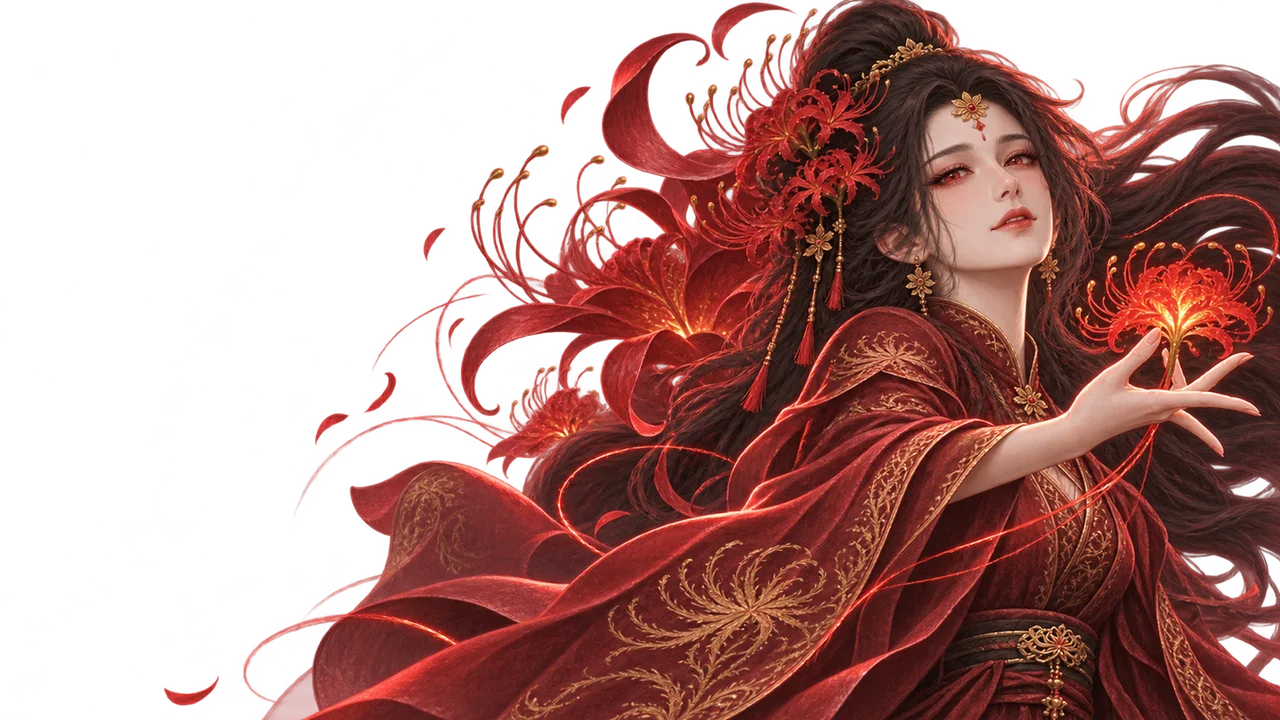
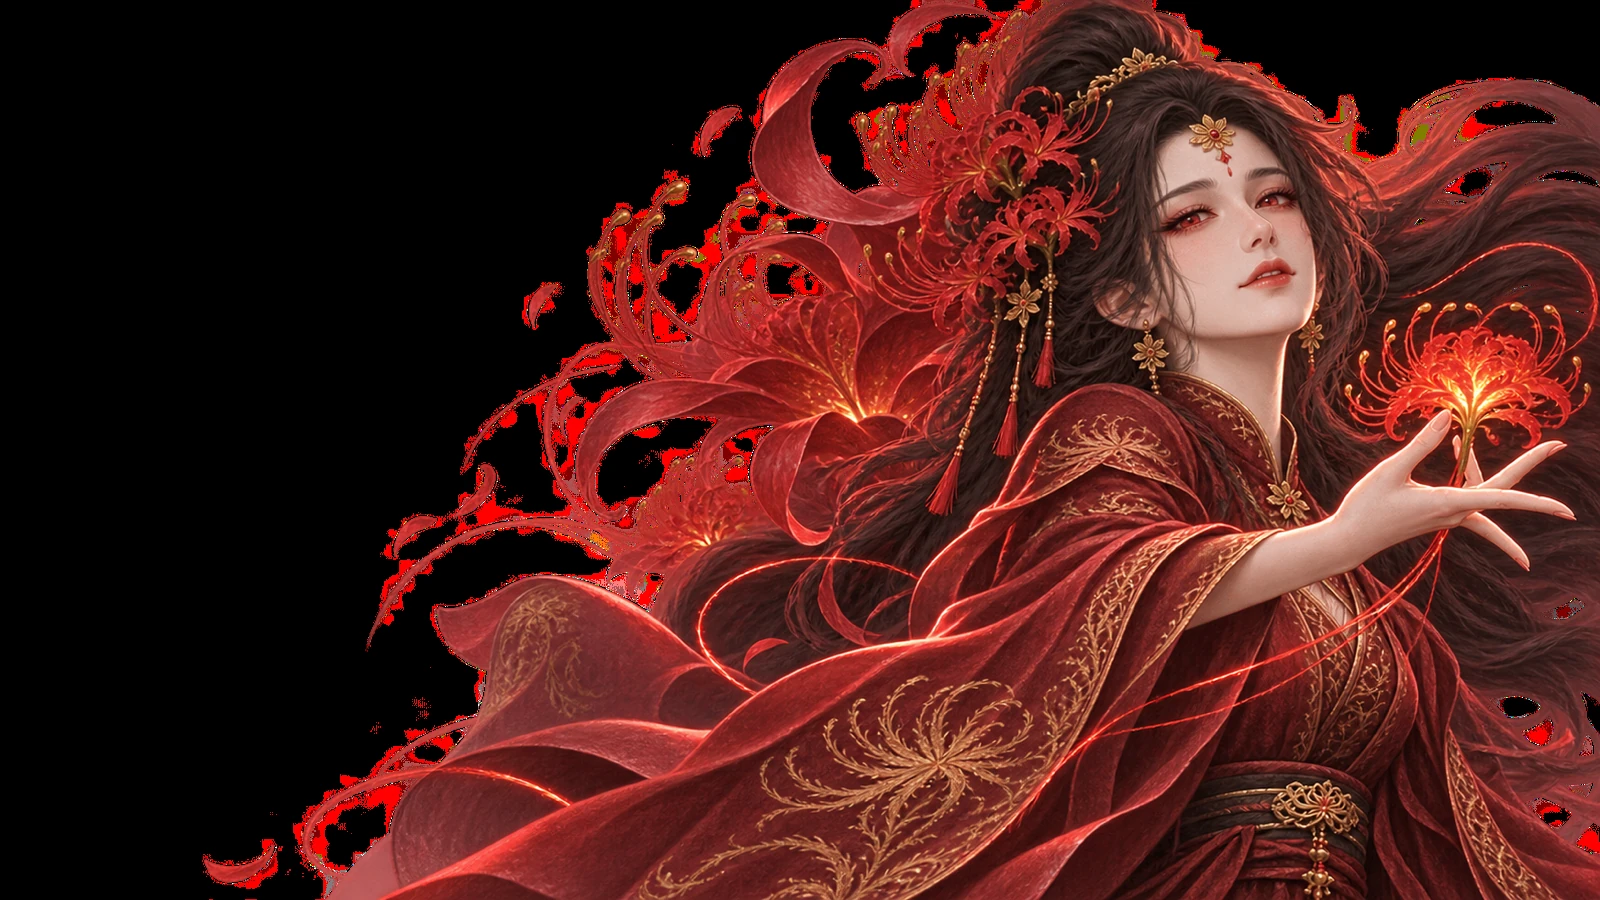
万妖塔开战大立绘换 R434 原 1600 版；r463 现身用图（测试）
Claude-Session: https://claude.ai/code/session_01MLmwgsq8MPeyfrTaz8BRE2

diff --git a/game/r430_towerextra.js b/game/r430_towerextra.js
@@ -33,7 +33,7 @@
       try { return await orig.apply(this, arguments); } finally { for (const who in keep) SPEAKERS[who].p = keep[who]; } })(ST.play); } catch (e) {}
   // ---------- 开战立绘：进首领战前，大立绘从右边划进来，左边写名号 ----------
   const CUT = { 1: 'jiangheng', 2: 'xuanfeng', 3: 'jiyue', 4: 'fenyu' };
-  for (const n in CUT) ld('r434_cut_' + CUT[n], 'r434/cut_' + CUT[n] + '.webp?v=1');
+  for (const n in CUT) ld('r434_cut_' + CUT[n], 'r434/cut_' + CUT[n] + '.webp?v=2');
   const V = { on: false, t0: 0, n: 0 };
   const overlay = { draw() { if (!V.on) return; const t = (performance.now() - V.t0) / 1000, B = T.BOSS[V.n], im = IMG['r434_cut_' + CUT[V.n]]; if (!B) return;
     const a = Math.min(1, t / .25) * (t > 1.55 ? Math.max(0, 1 - (t - 1.55) / .3) : 1), k = 1 - Math.pow(1 - Math.min(1, t / .45), 3);
